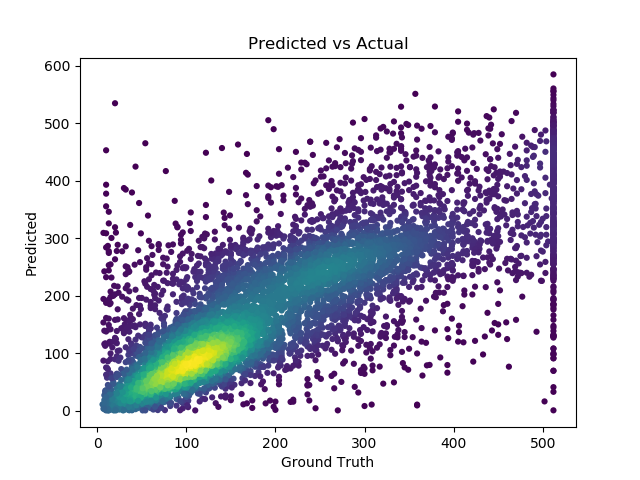
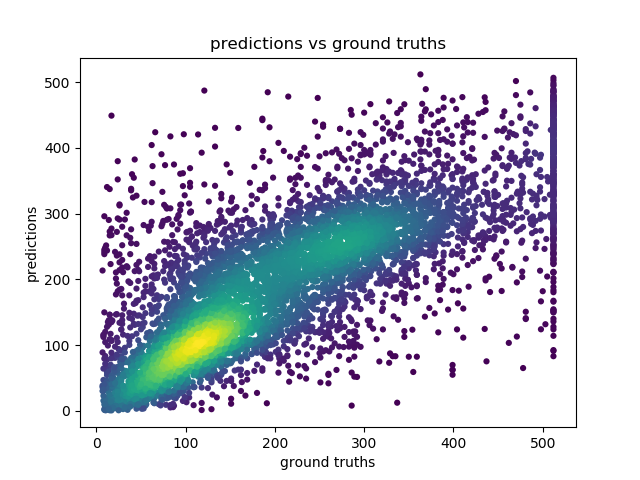
dataset tools update

diff --git a/evaluate/measure_accuracy.py b/evaluate/measure_accuracy.py
@@ -1,0 +1,97 @@
+import os
+import json
+import time
+import code
+from pathlib import Path
+from datetime import datetime as dt
+
+import numpy as np
+import pandas as pd
+import torch
+import torch.nn as nn
+from torchvision.transforms import Compose
+from util.transforms import CloudNormalizeBD, ToTensorBD
+from dataset.lidar_dataset import LidarDataset
+from torch.utils.data import DataLoader
+import matplotlib.pyplot as plt
+import matplotlib
+matplotlib.use('Agg')
+from scipy.stats import gaussian_kde
+
+from pptk import kdtree, viewer
+from laspy.file import File
+from util.apply_rf import apply_rf
+from util.metrics import create_kde
+
+from model import IntensityNet
+
+def measure_accuracy(config=None,
+                state_dict=None,
+                tile_directory=None,
+                dataset_csv=None,
+                transforms=None,
+                **kwargs):
+
+    print(f"measuring accuracy on {dataset_csv}")
+
+    dataset = LidarDataset(dataset_csv, transform=transforms)
+
+    dataloader = DataLoader(
+        dataset,
+        batch_size=config.batch_size,
+        num_workers=config.num_workers,
+        drop_last=True)
+
+    mae_output = []
+    alt_values = []
+    fixed_values = []
+    gt_values = []
+    model = IntensityNet(num_classes=config.num_classes).to(config.device).double()
+    model.load_state_dict(torch.load(state_dict))
+    
+    with torch.no_grad():
+        for batch_idx, batch in enumerate(dataloader):
+            eval_time = time.time()
+            gt, alt, fid, _ = batch
+            
+            # Get the intensity of the ground truth point
+            i_gt = gt[:,0,3].to(config.device)
+            fid = fid.to(config.device)
+            
+            # get rid of the first point from training sample
+            alt_values.append(alt[:, 0, 3])
+            gt_values.append(i_gt)
+            alt = alt[:, 1:, :]
+            alt = alt.transpose(1, 2).to(config.device)
+
+            output, _, _ = model(alt, fid)
+            fixed_values.append(output)
+            mae_output.append(torch.mean(torch.abs(i_gt - output)).cpu().numpy())
+
+    # create kde plots
+    # altered vs ground truth
+    alt_values = np.stack([i.cpu().numpy() for i in alt_values]).flatten()
+    gt_values = np.stack([i.cpu().numpy() for i in gt_values]).flatten()
+    fixed_values = np.stack([i.cpu().numpy() for i in fixed_values]).flatten()
+    print(f"Alt values: {len(alt_values)}")
+    print(f"GT Values: {len(gt_values)}")
+    print(f"Fixed values: {len(fixed_values)}")
+
+    create_kde(gt_values,
+               alt_values,
+               "ground truth",
+               "altered values",
+               "results/alt_kde.png")
+
+    # fixed vs ground truth
+    create_kde(gt_values,
+               fixed_values,
+               "ground truth",
+               "fixed values",
+               "results/fixed_kde.png")
+    
+    # total measurement
+    total_mae_output = np.mean(np.array(mae_output))
+    # print(mae_output)
+    print(total_mae_output)
+    

diff --git a/run.py b/run.py
@@ -8,6 +8,7 @@ from torchvision.transforms import Compose
 
 from train import train
 from evaluate.generate_map import generate_map
+from evaluate.measure_accuracy import measure_accuracy
 from config import Config
 from util.transforms import LoadNP, CloudNormalize, CloudAugment, CloudJitter, ToTensor
 
@@ -16,11 +17,12 @@ parser = argparse.ArgumentParser(description="run script for Intensity Correctio
 subparsers = parser.add_subparsers(help='sub-command help')
 
 parser_train = subparsers.add_parser('train', help='train the network')
-parser_train.add_argument('-e', '--epochs', help='number of epochs to train')
+parser_train.add_argument('-e', '--epochs', type=int, help='number of epochs to train')
+parser_train.add_argument('-d', '--dataset_csv', help='training dataset csv to use')
 parser_train.set_defaults(func=train,
                           config=Config(),
-                          dataset_csv="dataset/50_10000/train_dataset.csv",
-                          transform=Compose([LoadNP(),
+                          dataset_csv=r"dataset/50_10000/train_dataset.csv",
+                          transforms=Compose([LoadNP(),
                                              CloudNormalize(),
                                              ToTensor()]),
                           epochs=50,                       
@@ -28,21 +30,26 @@ parser_train.set_defaults(func=train,
 
 parser_eval = subparsers.add_parser('eval', help='evaluate the network')
 parser_eval.add_argument('state_dict', help='state dictionary for the model')
+parser_eval.add_argument('-d', '--dataset_csv', help='testing csv to use')
 parser_eval.set_defaults(func=None,
                          config=Config(),
                          dataset_csv="dataset/50_10000/test_dataset.csv",
-                         transform=Compose([LoadNP(),
+                         transforms=Compose([LoadNP(),
                                              CloudNormalize(),
                                              ToTensor()]))
 
 eval_subparsers = parser_eval.add_subparsers(help='evaluation experiment')
-map_parser = eval_subparsers.add_parser('gen_map', help='generate map')
+map_parser = eval_subparsers.add_parser('gen_map', help="create big map")
 map_parser.set_defaults(func=generate_map,
                         dataset=r"dataset/big_tile/")
+
+acc_parser = eval_subparsers.add_parser('measure_acc', help='meausre accuracy on tileset')
+acc_parser.set_defaults(func=measure_accuracy)
 
 
 args = parser.parse_args()
 
+# print(args)
 kwargs = vars(args)
 func = kwargs['func']
 del kwargs['func']

diff --git a/train.py b/train.py
@@ -19,6 +19,8 @@ def train(config=None, dataset_csv=None, transforms=None, epochs=None, use_valid
     indices_list = list(range(sample_count))
     indices = {}
 
+    suffix = dataset_csv.split("/")[1]
+    
     phases = ['train']
 
     if use_valid:
@@ -32,7 +34,8 @@ def train(config=None, dataset_csv=None, transforms=None, epochs=None, use_valid
     
     dataset_sizes = {phase : len(indices[phase]) for phase in phases}
     samplers = {phase : SubsetRandomSampler(indices[phase]) for phase in phases}
-
+    print(len(samplers['train']))
+    print(len(samplers['val']))
     dataloaders = {
         phase : DataLoader(
             dataset,
@@ -95,11 +98,13 @@ def train(config=None, dataset_csv=None, transforms=None, epochs=None, use_valid
 
                 if batch_idx % ((len(samplers[phase])/config.batch_size)//10) == 0:
                     metrics.compute()
+                    # code.interact(local=locals())
                     print(f"[{batch_idx}/{len(dataloaders[phase])}] "
                           f"loss: {running_loss/total:.3f} "
                           f"MAE: {metrics.metrics['mae']:.3f} "
-                          f"GT_Max: {gt[:,:,3].max():.2f} P_Max: {output.max():.2f} "
-                          f"Alt_max: {alt[:,:,3].max()}")
+                          f"GT_Max: {gt[:,:,3].max():.2f}  "
+                          f"P_Max: {output.max():.2f} "
+                          f"Alt_max: {alt.transpose(1, 2)[:,:,3].max()}")
 
             running_loss = running_loss/dataset_sizes[phase]
 
@@ -108,12 +113,16 @@ def train(config=None, dataset_csv=None, transforms=None, epochs=None, use_valid
             if (phase == 'val'):
                 if running_loss < best_loss:
                     print("New best loss! Saving model...")
-                    torch.save(model.state_dict(), "intensity_dict")
+                    torch.save(model.state_dict(), f"intensity_dict_{suffix}")
                     best_loss = running_loss
 
                     # Create a KDE plot for the network at this state
                     print("Generating KDE for visualization")
-                    create_kde(metrics.pred_, metrics.targ_, "results/kde_validation.png")
+                    create_kde(metrics.targ_,
+                               metrics.pred_,
+                               "ground truths",
+                               "predictions",
+                               "results/kde_validation.png")
             
             metrics.clear_metrics()
         print(f"Epoch finished in {(time.time() - epoch_time):.3f} seconds")

diff --git a/dataset/tools/create_dataset.py b/dataset/tools/create_dataset.py
@@ -11,7 +11,13 @@ def load_laz(path):
     return f
 
 
-def create_dataset(path, neighborhood_size, samples, sanity_check=True):
+def create_dataset(path,
+                   neighborhood_size,
+                   samples,
+                   contains_flights=None,
+                   output_prefix=None,
+                   sanity_check=True):
+    
     start_time = time.time()
     
     # get flight path files:
@@ -21,6 +27,8 @@ def create_dataset(path, neighborhood_size, samples, sanity_check=True):
 
     # save path
     save_path = Path(r"%s_%s/gt/" % (neighborhood_size, samples))
+    if output_prefix:
+        save_path = Path(r"%s_%s_%s/gt/" % (output_prefix, neighborhood_size, samples))
     save_path.mkdir(parents=True, exist_ok=True)
     print(f"Created path: {save_path}")
     print(f"Found {file_count} flights")
@@ -32,13 +40,18 @@ def create_dataset(path, neighborhood_size, samples, sanity_check=True):
     # Randomly sample the first flight
     f1_sample = f1[sample]
     
-    p = Pool(4)
+    p = Pool(2)
 
     training_examples = []
     num_examples = 0
 
-    # Query flights 2-? with all points from flight 1
-    for fidx, fi in enumerate(p.imap_unordered(load_laz, laz_files[1:])):
+    if not contains_flights:
+        flights_container = laz_files[1:]
+    else:
+        flights_container = [laz_files[i] for i in contains_flights]
+                                    
+    # Query flights 2-? with all points from flight 0
+    for fidx, fi in enumerate(p.imap_unordered(load_laz, flights_container)):
         kd = kdtree._build(fi[:,:3])
         queries = kdtree._query(kd, f1_sample[:,:3], k=neighborhood_size, dmax=1)
         for idx, query in enumerate(queries):
@@ -53,6 +66,7 @@ def create_dataset(path, neighborhood_size, samples, sanity_check=True):
             print("no overlap found!")
 
     print(f"Found {len(training_examples)} total examples")
+
 
     # sanity check these values:
     if sanity_check:
@@ -91,4 +105,10 @@ def create_dataset(path, neighborhood_size, samples, sanity_check=True):
 if __name__ == '__main__':
     import argparse
     
-    create_dataset('dublin_flights', 50, 10000, sanity_check=True)
+    create_dataset('dublin_flights',
+                   10,
+                   100000,
+                   # contains_flights=[4],
+                   # output_prefix="",
+                   sanity_check=True)
+    

diff --git a/util/metrics.py b/util/metrics.py
@@ -12,24 +12,24 @@ def mae(predictions, targets):
     mae = torch.sum(torch.abs(targets - predictions))/len(predictions)
     return mae
 
-def create_kde(predictions, ground_truths, output_path, sample_ratio=1):
+def create_kde(x, y, xlabel, ylabel, output_path, sample_ratio=1):
     def torch_to_numpy(t):
         if type(t) == torch.Tensor:
             return torch.clone(t).cpu().detach().numpy()
         else:
             return t
 
-    predictions = torch_to_numpy(predictions)
-    ground_truths = torch_to_numpy(ground_truths)    
+    x = torch_to_numpy(x)
+    y = torch_to_numpy(y)
 
-    xy = np.vstack([predictions, ground_truths])
+    xy = np.vstack([y, x])
     z = gaussian_kde(xy)(xy)
 
     fig, ax = plt.subplots()
-    ax.scatter(ground_truths, predictions, c=z, s=20, edgecolor='')
-    plt.title("Predicted vs Actual")
-    plt.ylabel("Predicted")
-    plt.xlabel("Ground Truth")
+    ax.scatter(x, y, c=z, s=20, edgecolor='')
+    plt.title(f"{ylabel} vs {xlabel}")
+    plt.ylabel(ylabel)
+    plt.xlabel(xlabel)
     plt.savefig(output_path)
     
 

diff --git a/dataset/tools/create_synthetic.py b/dataset/tools/create_synthetic.py
@@ -1,0 +1,42 @@
+import os
+import json
+import time
+import code
+from pathlib import Path
+import numpy as np
+from pptk import kdtree
+from pptk import rand
+
+
+# Create a synthetic dataset to verify matching
+flight_num = 2
+psize = 100000
+intsize = 512
+sample_size = 10000
+neighborhood_size = 20
+
+
+# Create synthetic "ground truth" data
+xyz = rand(psize, 3)
+
+# define some intensity values
+gt_int = np.random.randint(0, high=512, size=psize)
+
+gt_int = np.expand_dims(gt_int, axis=1)
+
+gt = np.concatenate((xyz, gt_int), axis=1)
+
+sample_indices = np.random.choice(np.arange(psize), sample_size)
+
+# for each sample, create a neighborhood 
+samples = []
+kd = kdtree._build(gt[:,:3])
+query = kdtree._query(kd, sample_indices, neighborhood_size, dmax=1)
+
+# get gt and alt versions
+gt_samples = gt[query]
+
+for idx, i in enumerate(gt_samples):
+    np.save(f"synth/gt/2_{idx}.npy", i)
+
+

diff --git a/dataset/make_dataset.py b/dataset/make_dataset.py
@@ -1,0 +1,17 @@
+from tools.create_dataset import create_dataset
+from tools.create_altered_tiles import create_altered_tiles
+from tools.make_csv import make_csv
+
+def make_dataset(neighborhood_size, sample_size):
+    create_dataset('dublin_flights',
+                   neighborhood_size,
+                   sample_size,
+                   # contains_flights=[4],
+                   # output_prefix="single_flight",
+                   sanity_check=False)
+
+    create_altered_tiles(f"{neighborhood_size}_{sample_size}")
+    make_csv(f"{neighborhood_size}_{sample_size}")
+
+
+make_dataset(500, 10000)

diff --git a/evaluate/generate_map.py b/evaluate/generate_map.py
@@ -25,7 +25,12 @@ from model import IntensityNet
 from dataset.lidar_dataset import BigMapDataset
 
 
-def generate_map(config=None, state_dict=None, tile_directory=None, tree_size=50, viewer_sample=3, **kwargs):
+def generate_map(config=None,
+                 state_dict=None,
+                 tile_directory=None,
+                 tree_size=50,
+                 viewer_sample=3,
+                 **kwargs):
 
     start_time = time.time()
 

diff --git a/dataset/tools/make_csv.py b/dataset/tools/make_csv.py
@@ -84,5 +84,5 @@ def make_csv(path):
     print(f"Created testing dataset with {len(df_test)} samples")
 
 if __name__=='__main__':
-    make_csv("50_10000")
+    make_csv("synth")
         

diff --git a/dataset/tools/create_altered_tiles.py b/dataset/tools/create_altered_tiles.py
@@ -44,5 +44,5 @@ def create_altered_tiles(path):
     
     
 if __name__=='__main__':
-    create_altered_tiles('50_10000')
+    create_altered_tiles('synth')
 
